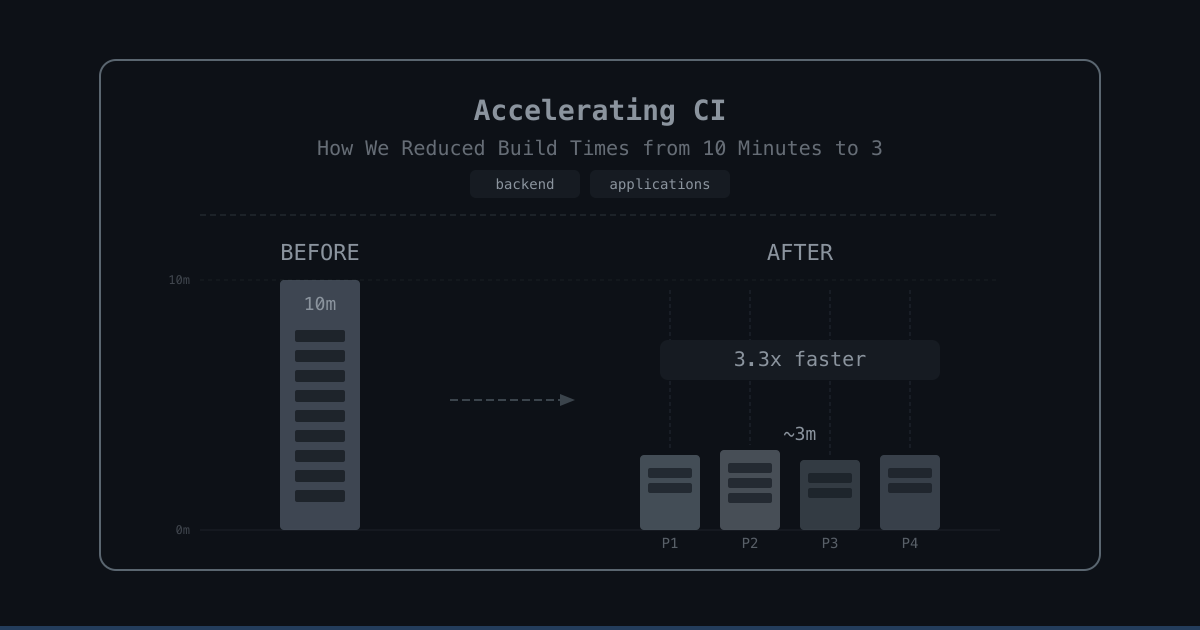
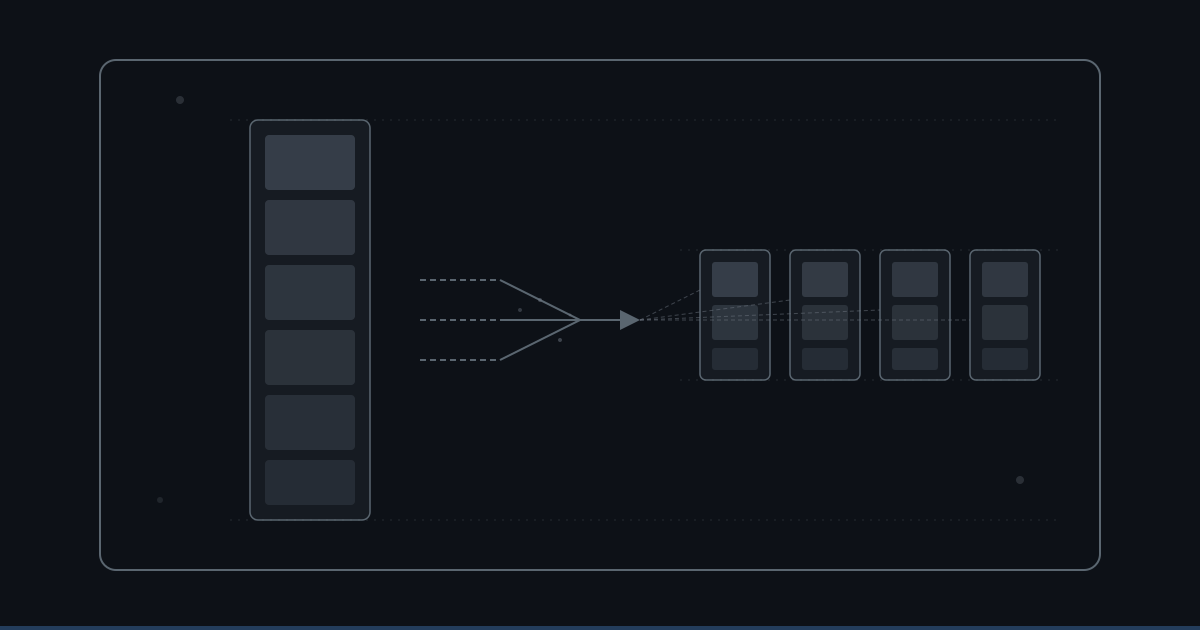
change image

diff --git a/.claude/skills/image-generation-strategy/SKILL.md b/.claude/skills/image-generation-strategy/SKILL.md
@@ -37,23 +37,27 @@ When a new blog post is created, you MUST:
 
 All images are **1200x630** and strictly monochromatic:
 
-| Element | Color |
-|---------|-------|
-| Background | `#0d1117` |
-| Panel/card fills | `#161b22` |
-| Tertiary fills | `#1c2128` |
-| Primary text (title) | `#e6edf3` |
-| Secondary text (labels) | `#8b949e` |
-| Muted elements | `#6e7681` |
-| Borders/strokes | `#30363d` |
-| Accent (bottom line) | `#58a6ff` at 30% opacity |
-| Tag pill bg | `#1c2128` with `#30363d` border |
+| Element | Color | Usage |
+|---------|-------|-------|
+| Background | `#0d1117` | Canvas background |
+| Container frame | `#5a6670` | Border rect around illustration area |
+| Illustration elements | `#5a6670`, `#4a5460`, `#6e7681` | Lines, boxes, shapes, borders |
+| Panel/card fills | `#161b22` | Box backgrounds inside illustration |
+| Tertiary fills | `#1c2128` | Subtle background layers |
+| Text (labels) | `#8b949e` | 18px+ for visibility at thumbnail size |
+| Muted text | `#6e7681` | Smaller secondary text |
+| Accent line ONLY | `#58a6ff` at 30% opacity | Bottom accent line only — do NOT use elsewhere |
+| Border details | `#30363d` | Subtle inner borders/dividers |
 
-**Rules:**
-- Monospace font everywhere (monospace in SVG)
-- Monochromatic only - greys and one blue accent
-- No neon, no gradients, no bright colors, no emoji
-- Abstract/geometric illustrations, not code screenshots
+**Critical Rules:**
+- **Illustration colors**: Use ONLY muted grays (#5a6670, #4a5460, #6e7681) — never use bright #58a6ff for illustration elements
+- **Accent blue**: #58a6ff is ONLY for the bottom accent line (4px rect at y=626), nowhere else
+- **Text sizing**: 18px minimum for labels, 28px+ for titles — cards are previewed small
+- **Canvas margins**: 100px left/right, 60-80px top/bottom — don't extend illustration to edges
+- **Container frame**: Add a subtle `<rect>` border (x=100, y=60, width=1000, height=510, stroke=#5a6670, stroke-width=2) to define illustration bounds
+- **Monospace font**: Use monospace for all text in SVG
+- **No neon, gradients, or bright colors** — stick to the muted palette
+- **Abstract/geometric** — not code screenshots or realistic images
 - 8px radius on panels, 4px on pills, 6-10px on windows
 
 ## Tag-to-Illustration Mapping
@@ -74,19 +78,33 @@ Choose illustration based on the post's primary tags:
 
 ## SVG Layout Template
 
+Canvas: **1200x630px**
+
 ```
-┌──────────────────────────────────────────┐
-│                                          │
-│     [Topic illustration]                 │
-│     (fills entire 1200x630 canvas)       │
-│                                          │
-│                                          │
-│                                          │
-│  ════════════════════ accent (y=626)     │
-└──────────────────────────────────────────┘
+┌─────────────────────────────────────────────────────┐  y=0
+│                                                     │
+│  ┌───────────────────────────────────────────────┐  y=60  ← container frame starts
+│  │                                               │
+│  │   [Illustration fills here, roughly          │
+│  │    800-950px wide × 450px tall]              │
+│  │                                               │
+│  │   Use muted grays (#5a6670, #4a5460)        │
+│  │   NO bright colors, NO title text            │
+│  │                                               │
+│  └───────────────────────────────────────────────┘  y=570 ← container frame ends
+│                                                     │
+│  ════════════════════════════════════════════════  y=626 ← accent line (4px, #58a6ff 30%)
+└─────────────────────────────────────────────────────┘  y=630
+0   100px margin            1100    1200px
 ```
 
-The illustration fills the full image. Only the accent line at the bottom is added. **Do NOT include title text or tag pills** — those are rendered in the HTML card below the image.
+**Canvas breakdown:**
+- Margins: 100px left/right, 60px top, 4px bottom for accent line
+- Usable illustration area: x ∈ [100, 1100], y ∈ [60, 570]
+- Container frame: `<rect x="100" y="60" width="1000" height="510" stroke="#5a6670" stroke-width="2" fill="none" rx="16"/>`
+- Accent line: `<rect x="0" y="626" width="1200" height="4" fill="#58a6ff" opacity="0.3"/>`
+
+**Important**: Illustration should fill most of the container (not cramped in a corner). Distribute content vertically and horizontally to use the space effectively.
 
 ## Generation Process
 
@@ -102,14 +120,37 @@ The illustration fills the full image. Only the accent line at the bottom is add
 
 ## Illustration Guidelines
 
-When drawing SVG illustrations:
-- Use **geometric shapes** (circles, rects, lines) - no complex paths
-- Layer opacity for depth (0.3-0.8 range)
-- Dashed lines (`stroke-dasharray="6,4"`) for connections/data flow
-- Small circles (r=3-6) as live indicator dots
-- Window chrome: rounded rect + 3 dots at top-left + title bar
-- Minimal detail - suggest the concept, don't overload
-- Center the illustration horizontally
+**Shape and composition:**
+- Use **geometric shapes only** (circles, rects, lines, polygons) — no complex bezier curves
+- Layer opacity for depth (0.3-0.8 range for secondary elements)
+- Dashed lines (`stroke-dasharray="6,4"`) for connections, flows, or optional elements
+- Small circles (r=3-6) as live indicator dots or connection points
+- Window chrome: rounded rect + 3 dots at top-left + title bar separator
+- Minimal detail — suggest the concept, don't overload with decoration
+
+**Canvas usage:**
+- Center illustration horizontally in usable area (x: 100-1100)
+- Distribute vertically to fill y: 60-570 space (use most of it, don't leave large gaps)
+- For multi-element layouts (diagrams, grids), space elements evenly
+- Minimum 40px between major elements for visual breathing room
+- Use text labels (18px+) to clarify what elements represent
+
+**Color discipline:**
+- Borders/outlines: #5a6670 or #30363d
+- Boxes/containers: #161b22 for fills, #5a6670 for stroke
+- Text: #8b949e for main labels, #6e7681 for secondary
+- Details/depth: #4a5460 or #1c2128 with reduced opacity
+- **Never use #58a6ff in the illustration** — only in the accent line
+
+## Common Mistakes to Avoid
+
+1. **Using bright colors for illustration**: #58a6ff should ONLY be the accent line at the bottom, never for diagram elements. Use muted grays instead.
+2. **Cramped illustrations**: Leaving large blank areas at bottom. Distribute content vertically to fill y: 60-570.
+3. **Text too small**: Cards are viewed at thumbnail size. Minimum 18px for labels, 28px+ for titles.
+4. **No container frame**: The subtle rect border (x=100, y=60, width=1000, height=510) is essential for defining visual boundaries.
+5. **Extending to edges**: Illustration should have ~100px margins on sides. Don't extend elements to x=0 or x=1200.
+6. **Missing accent line**: Every image must end with the blue accent line at y=626. Easy to forget.
+7. **Complex paths instead of shapes**: Stick to circles, rects, lines, polygons. Avoid bezier curves and complex SVG paths.
 
 ## When to Regenerate
 
